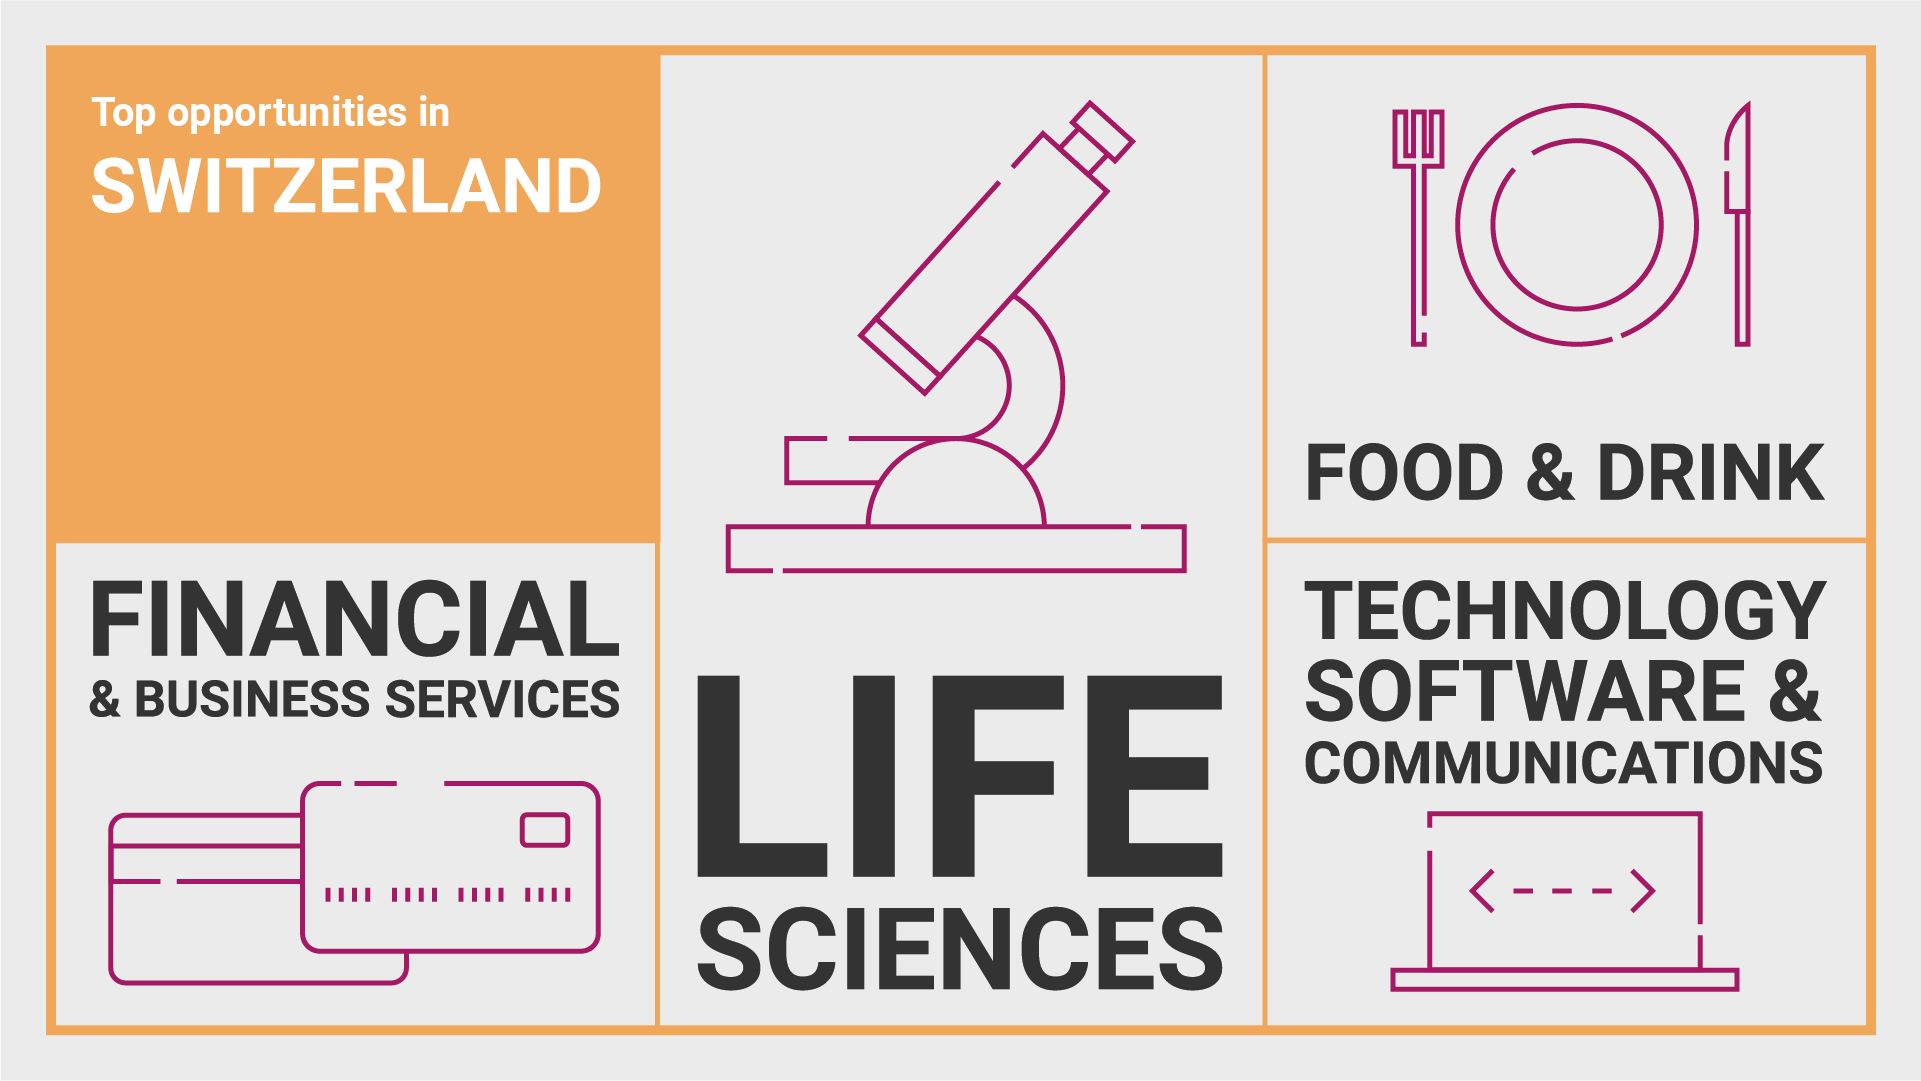
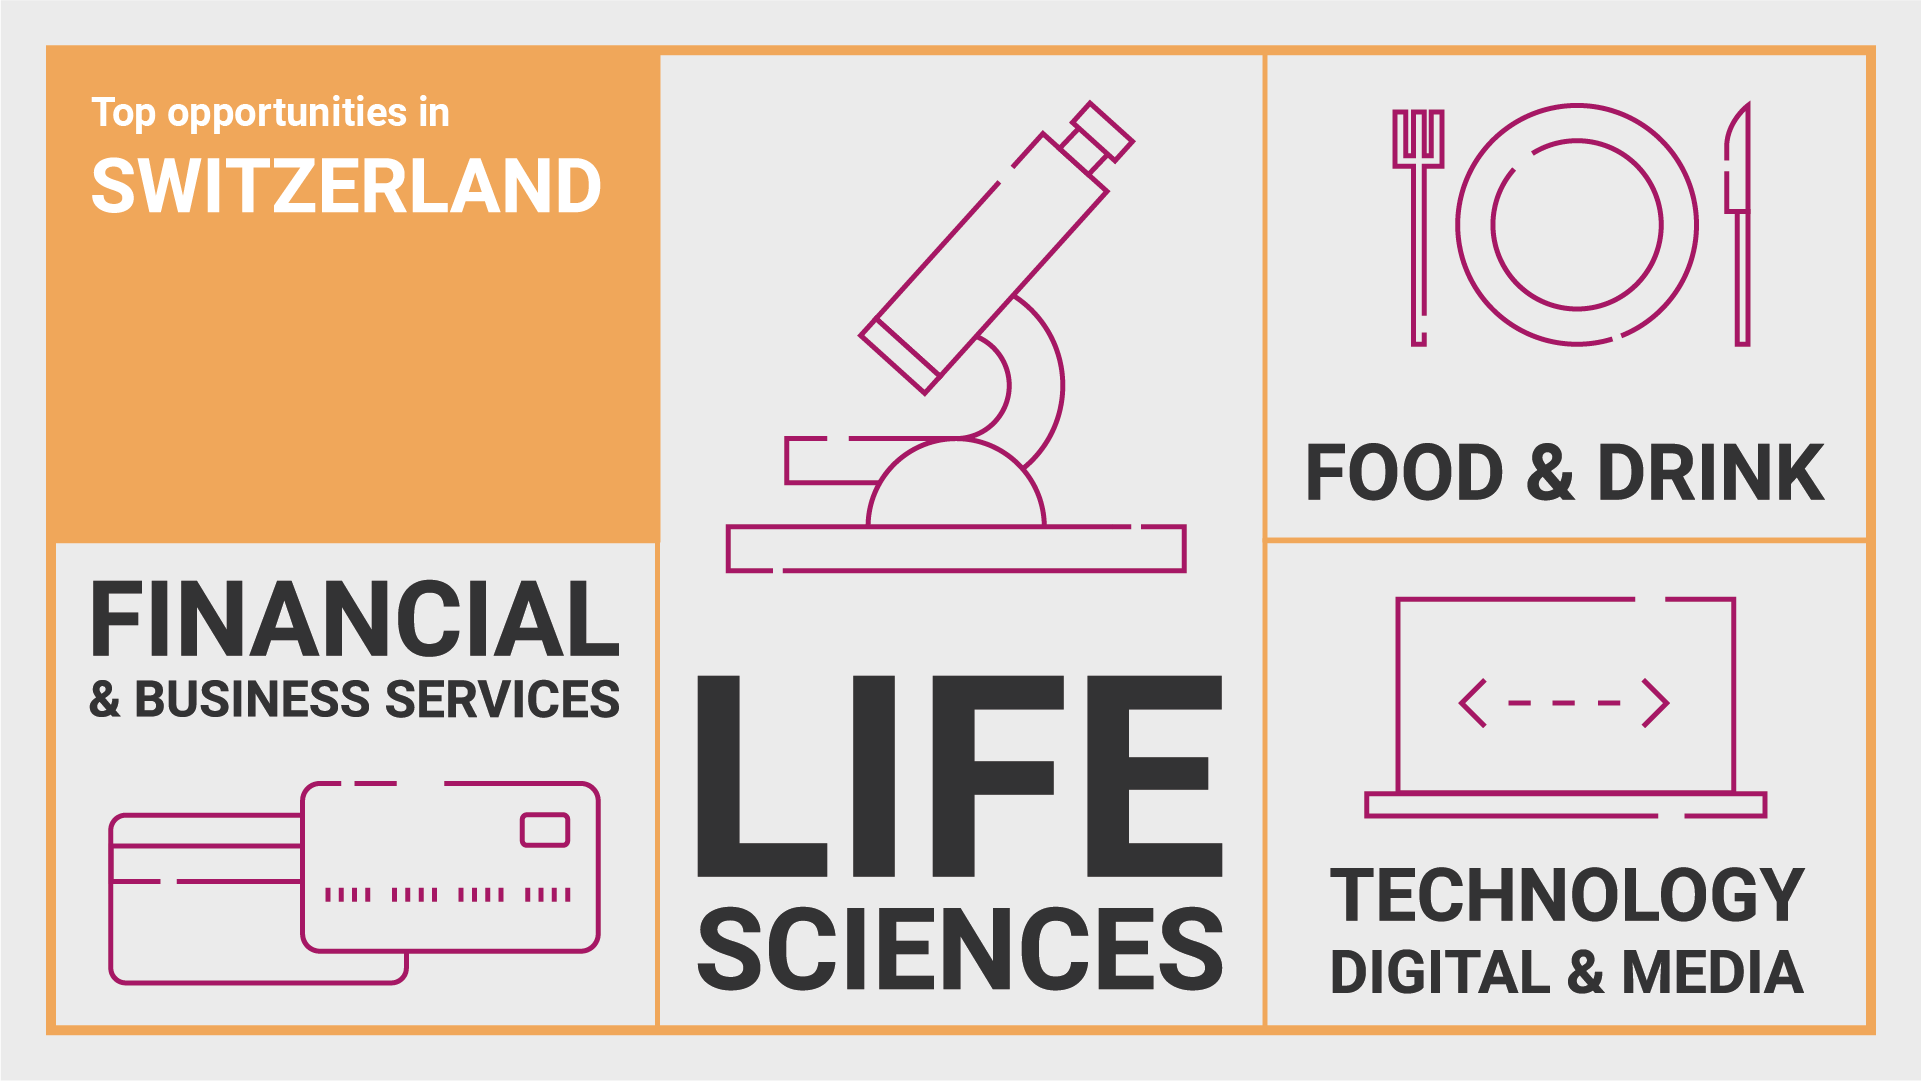
Updated infographic images

Changed region(s): [[0.6559, 0.519, 0.9682, 0.7632], [0.6871, 0.7937, 0.937, 0.9158]]

diff --git a/pages/country-profiles/netherlands.md b/pages/country-profiles/netherlands.md
@@ -45,8 +45,10 @@ In the Netherlands, the key sectors where Scotland could sell more are:
 
 ![An infographic of top opportunities in the Netherlands's](/assets/images/country_infographics/04-Netherlands-top-opportunities.png)
 
+{:.hidden}
 ### Top opportunities in the Netherlands
 
+{:.hidden}
 * Food & drink
 * Financial & business services
 * Technology, software & communications
@@ -54,6 +56,7 @@ In the Netherlands, the key sectors where Scotland could sell more are:
 * Chemical sciences
 * Life sciences
 * Engineering & advanced manufacturing
+
 
 ## Help with exporting in the Netherlands
 

diff --git a/pages/country-profiles/belgium.md b/pages/country-profiles/belgium.md
@@ -33,8 +33,6 @@ Belgium is also a good place for Scottish businesses to export to because:
 ## What we could sell more of
 A Trading Nation uses evidence to work out [what Scotland could sell more of](https://tradingnation.mygov.scot/what-people-are-buying/).
 
-/assets/images/charts_and_graphs/country
-
 In Belgium, the key sectors where Scotland could sell more are:
 
 * financial services
